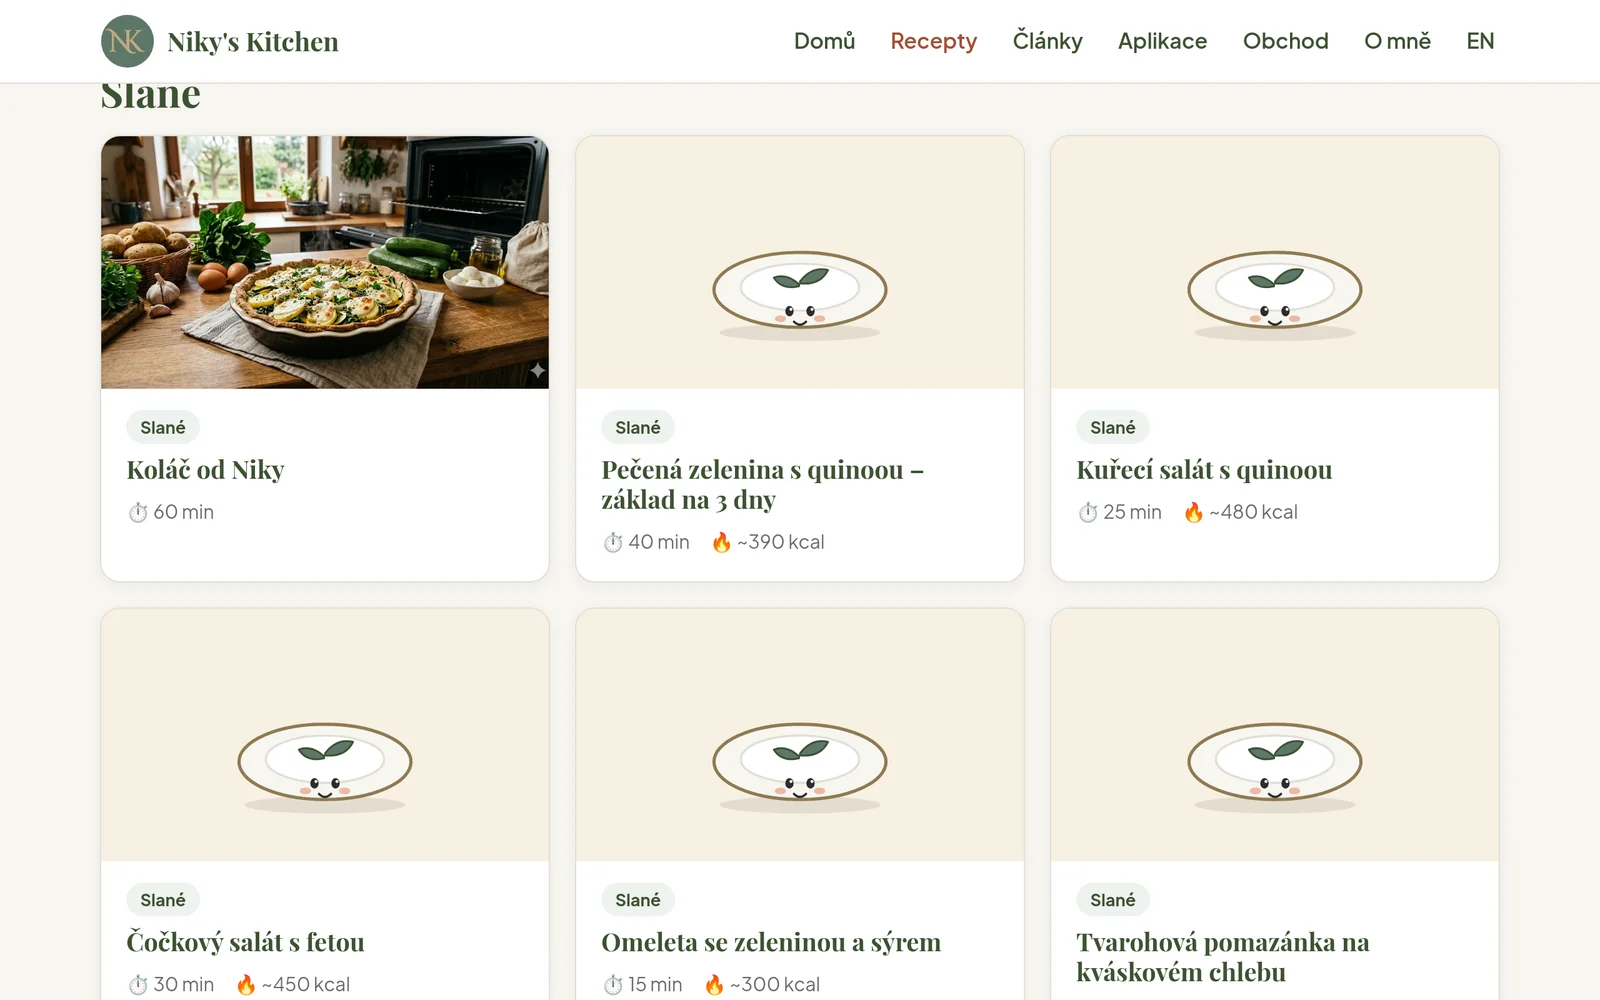
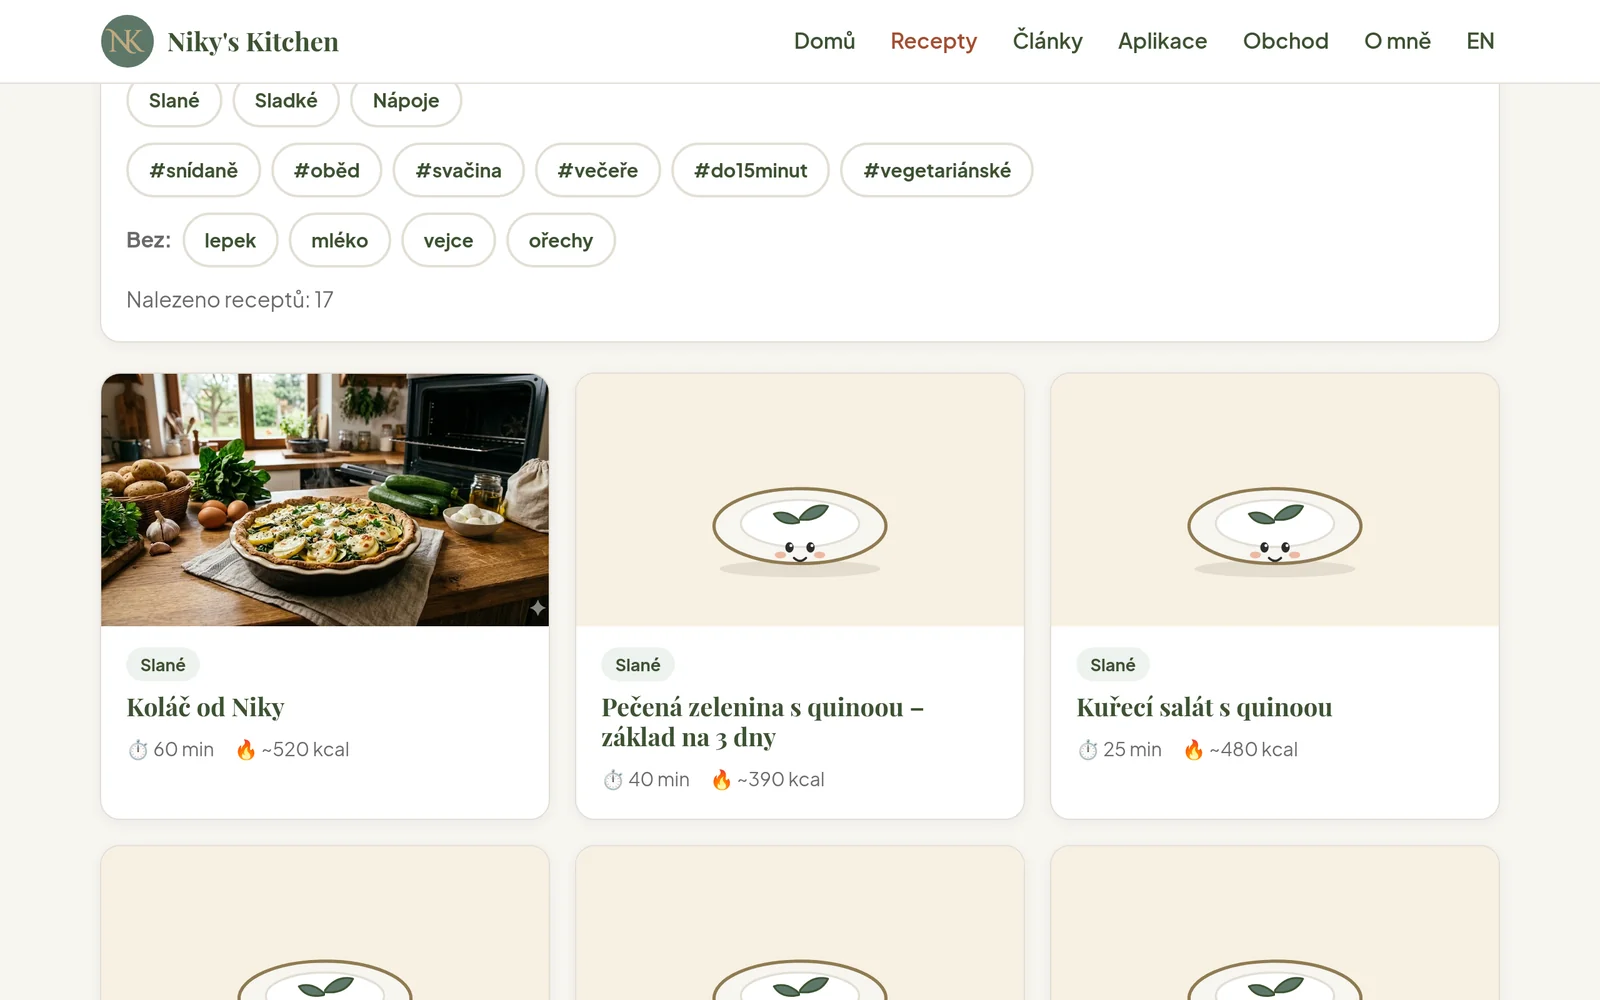
README: nové screenshoty podle aktuálního vzhledu (obchod, filtry, appka)

diff --git a/README.md b/README.md
@@ -2,7 +2,7 @@
 
 **🌐 Web:** https://4613nikola-oss.github.io/nikys-kitchen-web/ · **📱 Appka:** https://4613nikola-oss.github.io/jidlo-od-a-z/
 
-Nový web značky **Niky's Kitchen**: recepty (slané, sladké, nápoje) a krátké články o výživě, česky i anglicky. Časem tu bude i appka a obchod – všechno v jednom projektu.
+Nový web značky **Niky's Kitchen**: recepty (slané, sladké, nápoje) a krátké články o výživě, česky i anglicky. Je tu i obchod s digitálními produkty (zatím s ukázkami, prodej se připravuje). Časem sem přibude i appka – všechno v jednom projektu.
 
 ![Úvodní stránka Niky's Kitchen na počítači, tabletu a mobilu](docs/ukazky/ukazka-niky-web.webp)
 
@@ -46,7 +46,7 @@ Niky's Kitchen má tři části. Cíl je pořád stejný: ulehčit lidem zdravé
 |------|----------|------|
 | 🌐 **Web s blogem** (tento projekt) | recepty a články, každý recept má základ a varianty (zhubnout / udržet / nabrat) | online: https://4613nikola-oss.github.io/nikys-kitchen-web/ |
 | 📱 **Appka Jídlo od A–Z** | kalkulačka příjmu, plán jídel, recepty z ledničky, nákupní seznam | online: https://4613nikola-oss.github.io/jidlo-od-a-z/ |
-| 🛒 **Obchod** | digitální produkty: e-booky, online kuchařka, jídelní plány, kurzy | připravujeme |
+| 🛒 **Obchod** | digitální produkty: e-booky, online kuchařka, jídelní plány, kurzy | stránka obchodu s ukázkami je online, prodej připravujeme |
 
 **Jak na sebe navazují:** web přivede čtenáře (recept, článek, sociální sítě) → appka mu pomůže v praxi (co a kolik jíst, z čeho uvařit) → obchod nabídne placené plány a e-booky pro ty, kdo chtějí víc.
 
@@ -54,11 +54,12 @@ Na webu: odkazy z receptů a článků vedou do appky (stránka Aplikace) a do o
 
 ## Co na webu je
 
-- **Recepty** – 17 receptů ve třech kategoriích, přepočet porcí, alergeny (14 podle EU), varianty, tip od maskota Tečky
+- **Recepty** – 17 receptů ve třech kategoriích, hledání (zvládne i překlepy), filtry podle jídla a alergenů, přepočet porcí i kcal, alergeny (14 podle EU), varianty po dnech, tisk do PDF, tip od maskota Tečky
 - **Články** – krátce „v kostce“, víc po rozkliknutí, se zdroji
 - **Obchod** – 6 digitálních produktů z databáze s obálkou, cenou a ukázkou zdarma (u týdenního plánu celý den + PDF)
 - **Aplikace, O mně** – představení dalších částí
-- Čeština a angličtina (`/cs/`, `/en/`), responzivní, přístupnost (WCAG), maskot Tečka
+- **Ochrana soukromí a prohlášení o přístupnosti** – vlastní stránky, odkaz v patičce
+- Čeština a angličtina (`/cs/`, `/en/`), responzivní, přístupnost (WCAG), SEO (mapa webu, náhledy při sdílení, data receptů pro Google), maskot Tečka
 
 ## Ukázky
 
@@ -68,7 +69,11 @@ Na webu: odkazy z receptů a článků vedou do appky (stránka Aplikace) a do o
 
 | Recept na počítači | Přehled receptů |
 |---|---|
-| ![Recept Koláč od Niky: suroviny s přepočtem porcí, postup s fotkami, alergeny](docs/ukazky/web-recept.webp) | ![Přehled receptů rozdělený na slané, sladké a nápoje](docs/ukazky/web-recepty.webp) |
+| ![Recept Koláč od Niky: suroviny s přepočtem porcí, postup s fotkami, alergeny](docs/ukazky/web-recept.webp) | ![Přehled receptů s hledáním a filtry podle kategorie, jídla a alergenů](docs/ukazky/web-recepty.webp) |
+
+| Obchod | Detail produktu |
+|---|---|
+| ![Obchod: 6 digitálních produktů s obálkami a cenami](docs/ukazky/web-obchod.webp) | ![Týdenní jídelní plán: cena, pro koho, co v něm najdeš](docs/ukazky/web-produkt.webp) |
 
 | Web v mobilu | Recept v mobilu | Appka: Můj den |
 |---|---|---|
